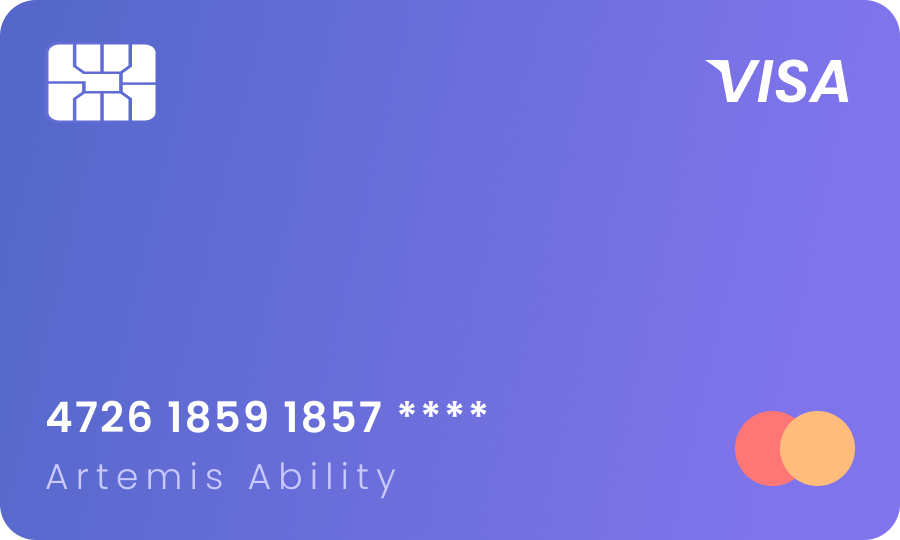
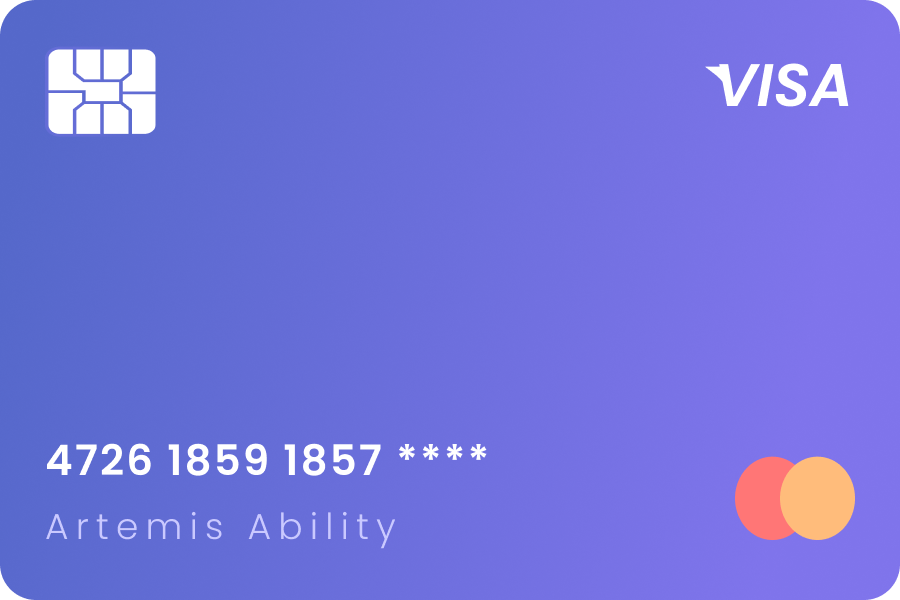
done modified paymentPage and add some assets or support

diff --git a/lib/pages/payment_page.dart b/lib/pages/payment_page.dart
@@ -1,0 +1,261 @@
+import 'package:flutter/material.dart';
+import 'package:trip/theme.dart';
+import 'package:trip/widget/floating_button.dart';
+import 'package:trip/widget/header.dart';
+
+class PaymentPage extends StatelessWidget {
+  @override
+  Widget build(BuildContext context) {
+    return Scaffold(
+      backgroundColor: backgroundColor,
+      floatingActionButton: FloatingButton(
+        buttonColor: greenColor,
+        name: 'Continue to Checkout',
+      ),
+      floatingActionButtonLocation: FloatingActionButtonLocation.centerFloat,
+      body: SafeArea(
+          child: ListView(
+        children: [
+          Column(
+            crossAxisAlignment: CrossAxisAlignment.start,
+            children: [
+              Padding(
+                padding: EdgeInsets.symmetric(
+                  horizontal: defaultMargin,
+                ),
+                child: Column(
+                  crossAxisAlignment: CrossAxisAlignment.start,
+                  children: [
+                    SizedBox(
+                      height: 30,
+                    ),
+                    Header(
+                      imageUrl: 'assets/icons/payment.png',
+                      pageTitle: 'Payment',
+                      title: 'Choose the card you\nwant to use',
+                    ),
+                  ],
+                ),
+              ),
+              SizedBox(
+                height: 30,
+              ),
+              Padding(
+                padding: EdgeInsets.only(
+                  left: defaultMargin,
+                ),
+                child: SingleChildScrollView(
+                  scrollDirection: Axis.horizontal,
+                  child: Row(
+                    children: [
+                      ClipRRect(
+                        borderRadius: BorderRadius.circular(12),
+                        child: Image.asset(
+                          'assets/images/card1.png',
+                          width: 300,
+                          height: 200,
+                          fit: BoxFit.cover,
+                        ),
+                      ),
+                      SizedBox(
+                        width: 20,
+                      ),
+                      ClipRRect(
+                        borderRadius: BorderRadius.circular(12),
+                        child: Image.asset(
+                          'assets/images/card2.png',
+                          width: 300,
+                          height: 200,
+                          fit: BoxFit.cover,
+                        ),
+                      ),
+                    ],
+                  ),
+                ),
+              ),
+              SizedBox(
+                height: 20,
+              ),
+              Padding(
+                padding: EdgeInsets.only(
+                  left: defaultMargin,
+                ),
+                child: Row(
+                  children: [
+                    Container(
+                      height: 30,
+                      width: 30,
+                      decoration: BoxDecoration(
+                        color: orangeColor,
+                        borderRadius: BorderRadius.circular(5),
+                      ),
+                      child: Center(
+                        child: Icon(
+                          Icons.add,
+                          color: whiteColor,
+                          size: 17,
+                        ),
+                      ),
+                    ),
+                    SizedBox(
+                      width: 12,
+                    ),
+                    Text(
+                      'Add Another Card',
+                      style: lightTextStyle.copyWith(
+                        fontSize: 14,
+                        color: darkGrayColor,
+                      ),
+                    ),
+                  ],
+                ),
+              ),
+              SizedBox(
+                height: 93,
+              ),
+              Container(
+                width: double.infinity,
+                height: 230,
+                decoration: BoxDecoration(
+                  color: cardColor,
+                  borderRadius: BorderRadius.vertical(
+                    top: Radius.circular(25),
+                  ),
+                ),
+                child: Column(
+                  crossAxisAlignment: CrossAxisAlignment.start,
+                  children: [
+                    SizedBox(
+                      height: 10,
+                    ),
+                    Row(
+                      mainAxisAlignment: MainAxisAlignment.center,
+                      children: [
+                        Container(
+                          height: 4,
+                          width: 30,
+                          decoration: BoxDecoration(
+                            color: backgroundColor,
+                            borderRadius: BorderRadius.circular(2),
+                          ),
+                        )
+                      ],
+                    ),
+                    SizedBox(
+                      height: 17,
+                    ),
+                    Padding(
+                      padding: EdgeInsets.symmetric(
+                        horizontal: defaultMargin,
+                      ),
+                      child: Column(
+                        crossAxisAlignment: CrossAxisAlignment.start,
+                        children: [
+                          Text(
+                            'Payment Summary',
+                            style: regularTextStyle.copyWith(
+                              fontSize: 16,
+                              color: whiteColor,
+                            ),
+                          ),
+                          SizedBox(
+                            height: 12,
+                          ),
+                          Row(
+                            mainAxisAlignment: MainAxisAlignment.spaceBetween,
+                            children: [
+                              Text(
+                                'Family Trip',
+                                style: lightTextStyle.copyWith(
+                                  fontSize: 12,
+                                  color: darkGrayColor,
+                                ),
+                              ),
+                              Text(
+                                'IDR 2.500.000',
+                                style: regularTextStyle.copyWith(
+                                  fontSize: 12,
+                                  color: whiteColor,
+                                ),
+                              ),
+                            ],
+                          ),
+                          SizedBox(
+                            height: 6,
+                          ),
+                          Row(
+                            mainAxisAlignment: MainAxisAlignment.spaceBetween,
+                            children: [
+                              Text(
+                                'Hotel',
+                                style: lightTextStyle.copyWith(
+                                  fontSize: 12,
+                                  color: darkGrayColor,
+                                ),
+                              ),
+                              Text(
+                                'IDR 500.000',
+                                style: regularTextStyle.copyWith(
+                                  fontSize: 12,
+                                  color: whiteColor,
+                                ),
+                              ),
+                            ],
+                          ),
+                          SizedBox(
+                            height: 6,
+                          ),
+                          Row(
+                            mainAxisAlignment: MainAxisAlignment.spaceBetween,
+                            children: [
+                              Text(
+                                'Service Fee',
+                                style: lightTextStyle.copyWith(
+                                  fontSize: 12,
+                                  color: darkGrayColor,
+                                ),
+                              ),
+                              Text(
+                                'IDR 50.000',
+                                style: regularTextStyle.copyWith(
+                                  fontSize: 12,
+                                  color: whiteColor,
+                                ),
+                              ),
+                            ],
+                          ),
+                          SizedBox(
+                            height: 6,
+                          ),
+                          Row(
+                            mainAxisAlignment: MainAxisAlignment.spaceBetween,
+                            children: [
+                              Text(
+                                'Total',
+                                style: regularTextStyle.copyWith(
+                                  fontSize: 12,
+                                  color: darkGrayColor,
+                                ),
+                              ),
+                              Text(
+                                'IDR 550.000',
+                                style: regularTextStyle.copyWith(
+                                  fontSize: 12,
+                                  color: orangeColor,
+                                ),
+                              ),
+                            ],
+                          ),
+                        ],
+                      ),
+                    ),
+                  ],
+                ),
+              )
+            ],
+          ),
+        ],
+      )),
+    );
+  }
+}

diff --git a/lib/pages/hotels_page.dart b/lib/pages/hotels_page.dart
@@ -1,4 +1,5 @@
 import 'package:flutter/material.dart';
+import 'package:trip/pages/payment_page.dart';
 import 'package:trip/theme.dart';
 import 'package:trip/widget/floating_button.dart';
 import 'package:trip/widget/header.dart';
@@ -9,9 +10,21 @@ class HotelsPage extends StatelessWidget {
   Widget build(BuildContext context) {
     return Scaffold(
       backgroundColor: backgroundColor,
-      floatingActionButton: FloatingButton(
-        buttonColor: purpleColor,
-        name: 'Continue to Payment',
+      floatingActionButton: InkWell(
+        onTap: () {
+          Navigator.push(
+            context,
+            MaterialPageRoute(
+              builder: (context) {
+                return PaymentPage();
+              },
+            ),
+          );
+        },
+        child: FloatingButton(
+          buttonColor: purpleColor,
+          name: 'Continue to Payment',
+        ),
       ),
       floatingActionButtonLocation: FloatingActionButtonLocation.centerFloat,
       body: SafeArea(
